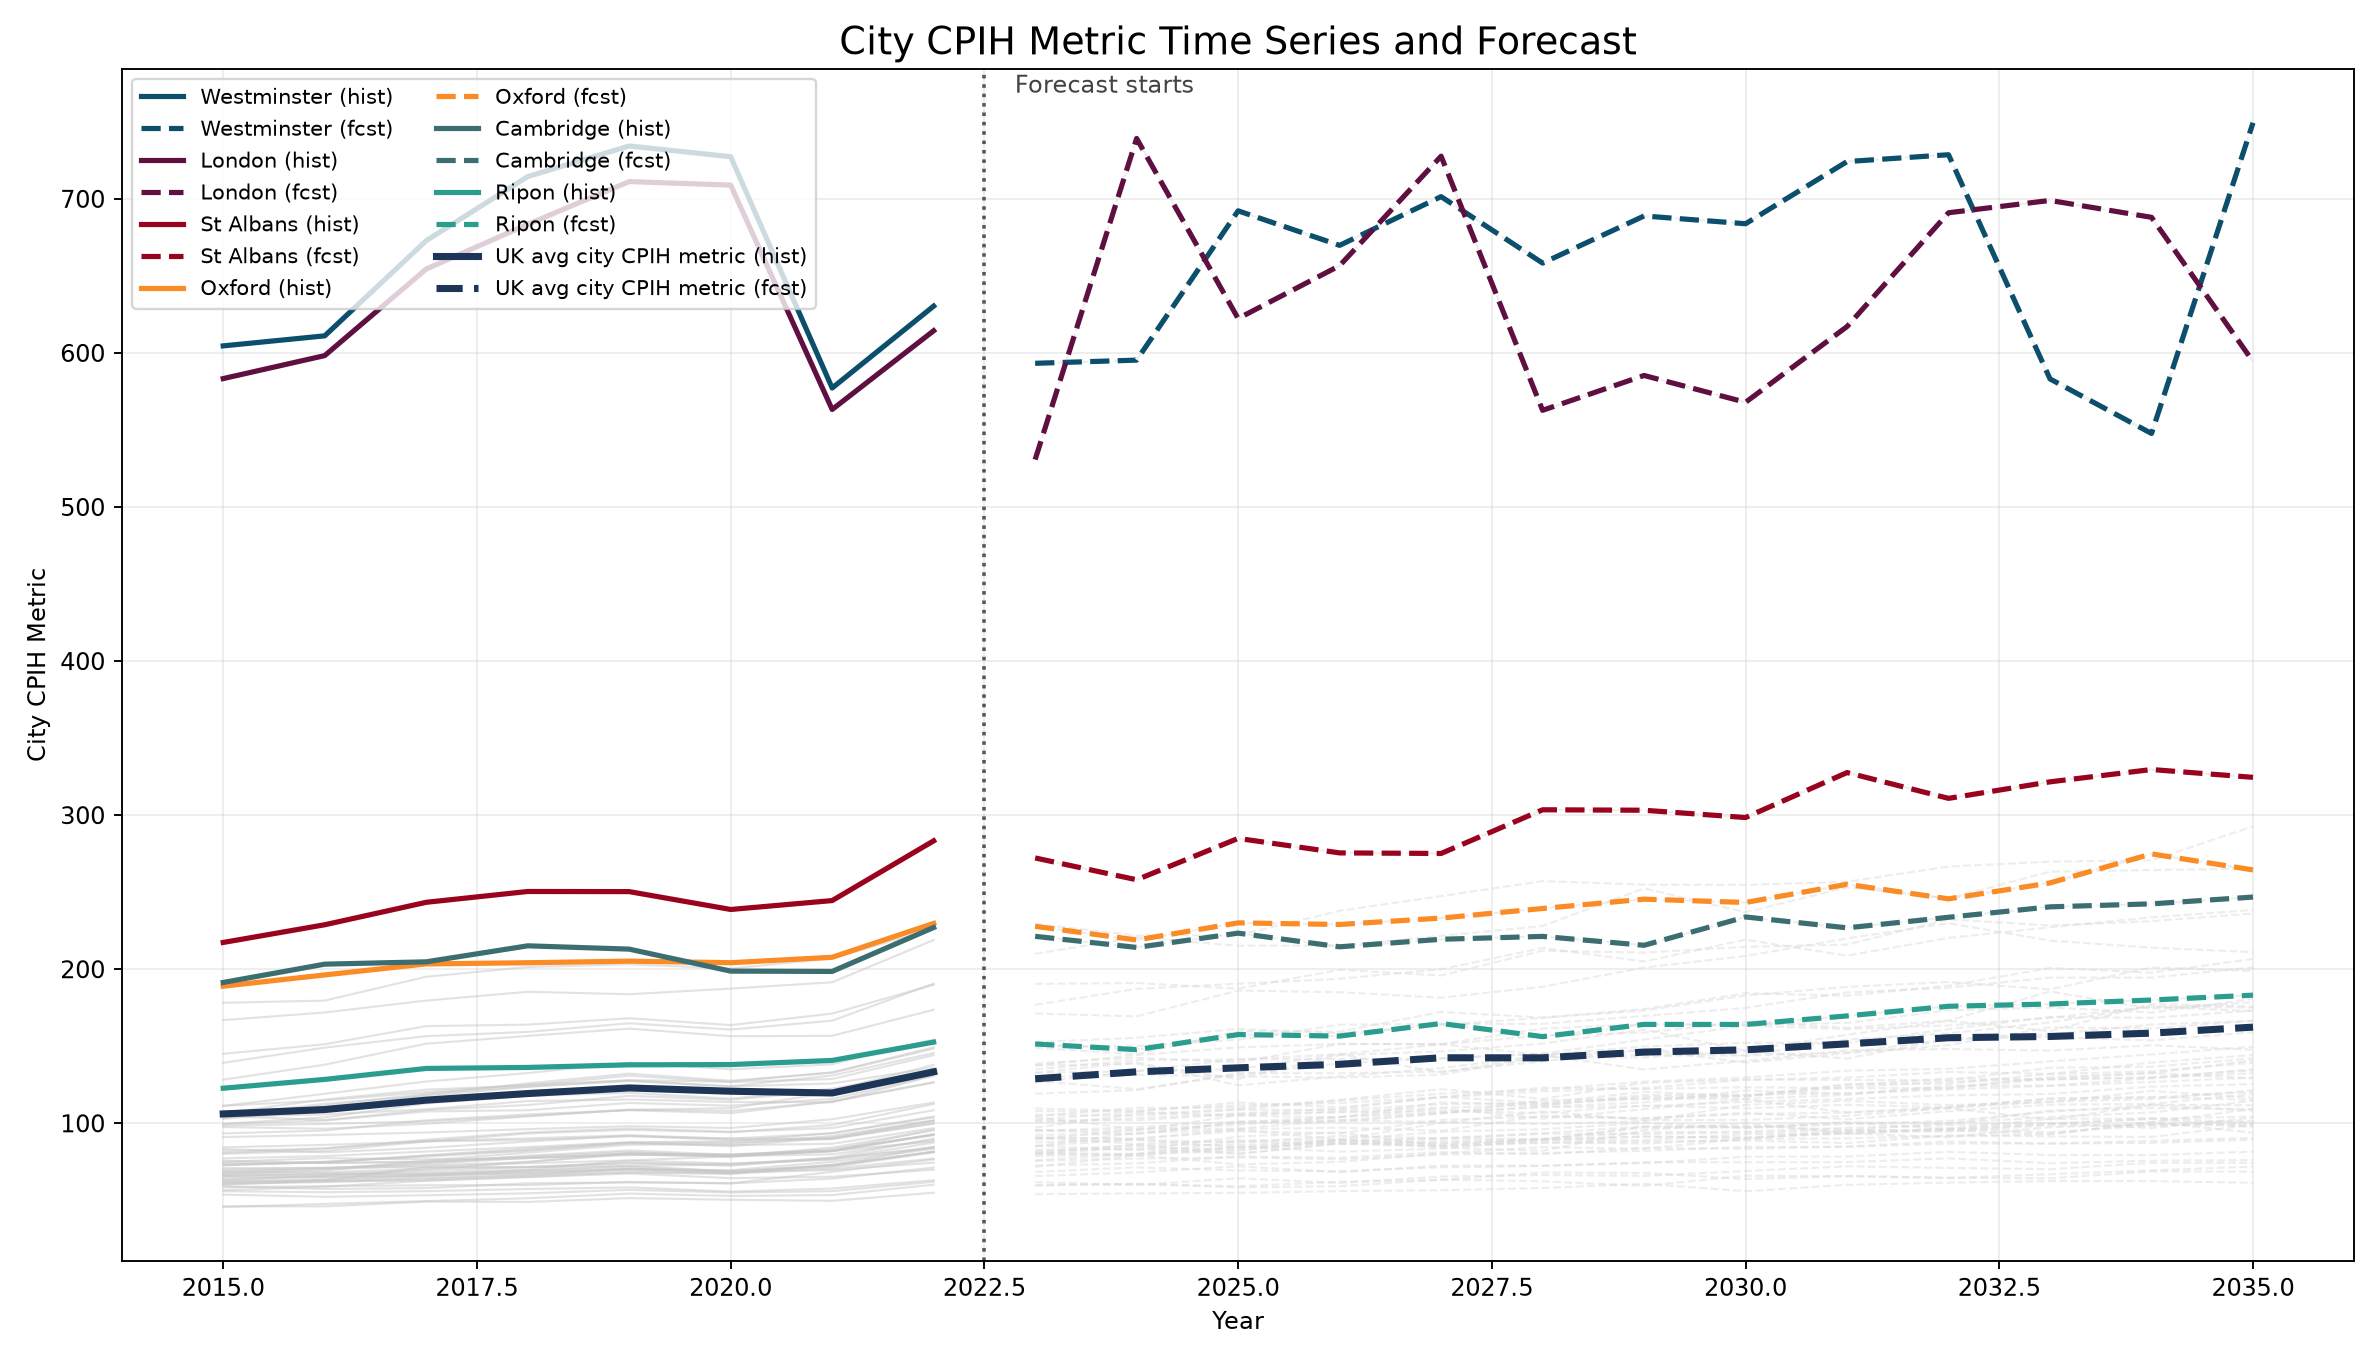
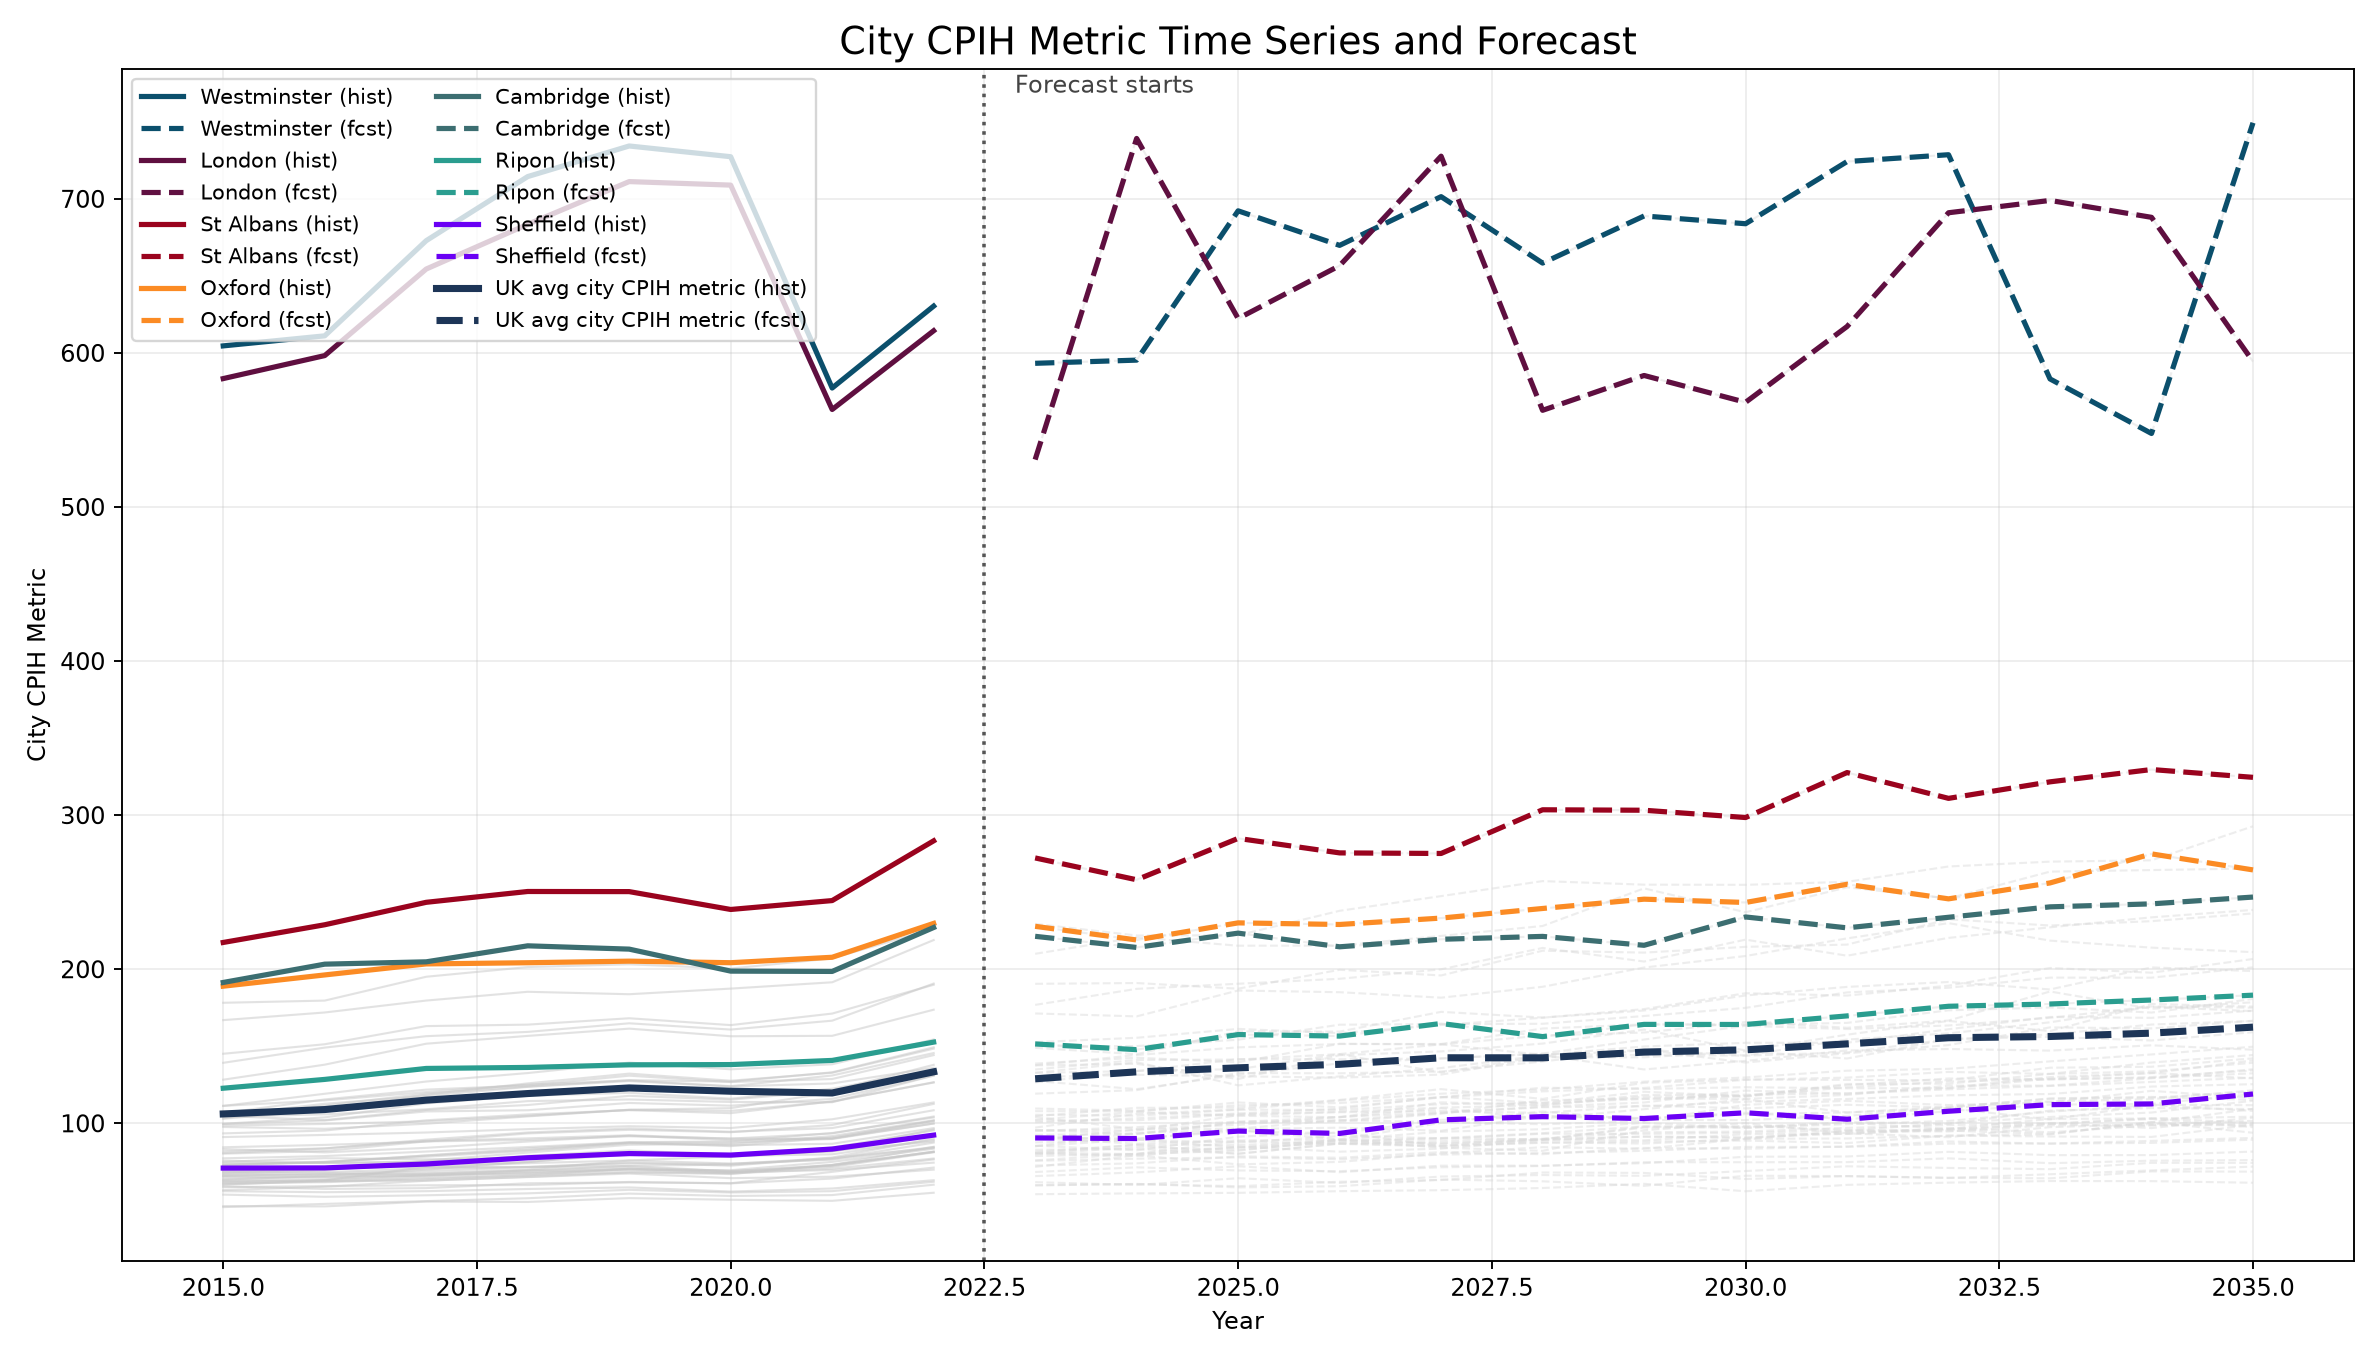
changed the plot

diff --git a/analytics_and_ml/forecast_city_cpih.py b/analytics_and_ml/forecast_city_cpih.py
@@ -525,6 +525,23 @@ def save_forecast_plot(history: pd.DataFrame, forecast: pd.DataFrame, out_path: 
             deduped.append(city)
     top_cities = deduped
 
+    # Always keep these cities highlighted when available.
+    must_highlight = []
+    if highest_northern_city and highest_northern_city in history["City"].values:
+        must_highlight.append(highest_northern_city)
+    if "Sheffield" in history["City"].values:
+        must_highlight.append("Sheffield")
+
+    for city in must_highlight:
+        if city not in top_cities:
+            top_cities.append(city)
+
+    deduped = []
+    for city in top_cities:
+        if city not in deduped:
+            deduped.append(city)
+    top_cities = deduped
+
     plt.figure(figsize=(14, 8))
 
     # Show all city trajectories lightly for context.
@@ -534,10 +551,11 @@ def save_forecast_plot(history: pd.DataFrame, forecast: pd.DataFrame, out_path: 
         plt.plot(grp["Year"], grp["City_CPIH_Proxy"], color="#d9d9d9", linewidth=0.9, alpha=0.45, linestyle="--")
 
     colors = ["#0b4f6c", "#5f0f40", "#9a031e", "#fb8b24", "#3c6e71", "#2a9d8f"]
+    sheffield_color = "#6a00f4"
     for i, city in enumerate(top_cities):
         h = history[history["City"] == city].sort_values("Year")
         f = forecast[forecast["City"] == city].sort_values("Year")
-        color = colors[i % len(colors)]
+        color = sheffield_color if city == "Sheffield" else colors[i % len(colors)]
         plt.plot(h["Year"], h["City_CPIH_Proxy"], color=color, linewidth=2.2, label=f"{city} (hist)")
         if not f.empty:
             plt.plot(f["Year"], f["City_CPIH_Proxy"], color=color, linewidth=2.2, linestyle="--", label=f"{city} (fcst)")
